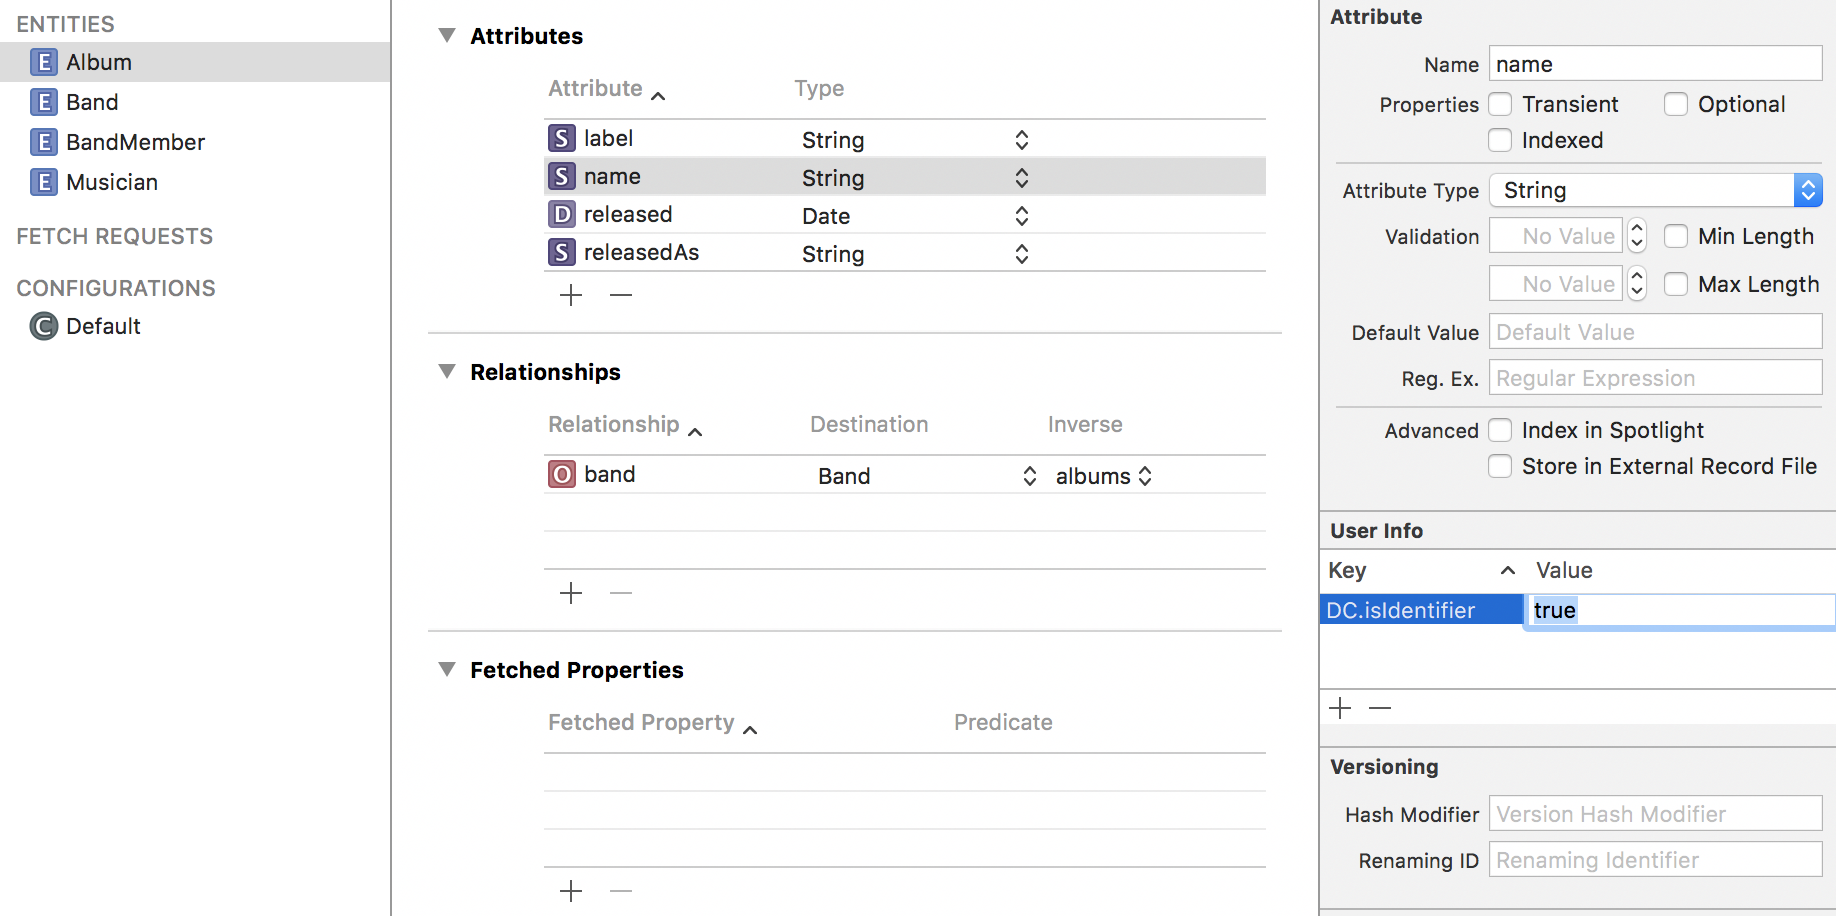
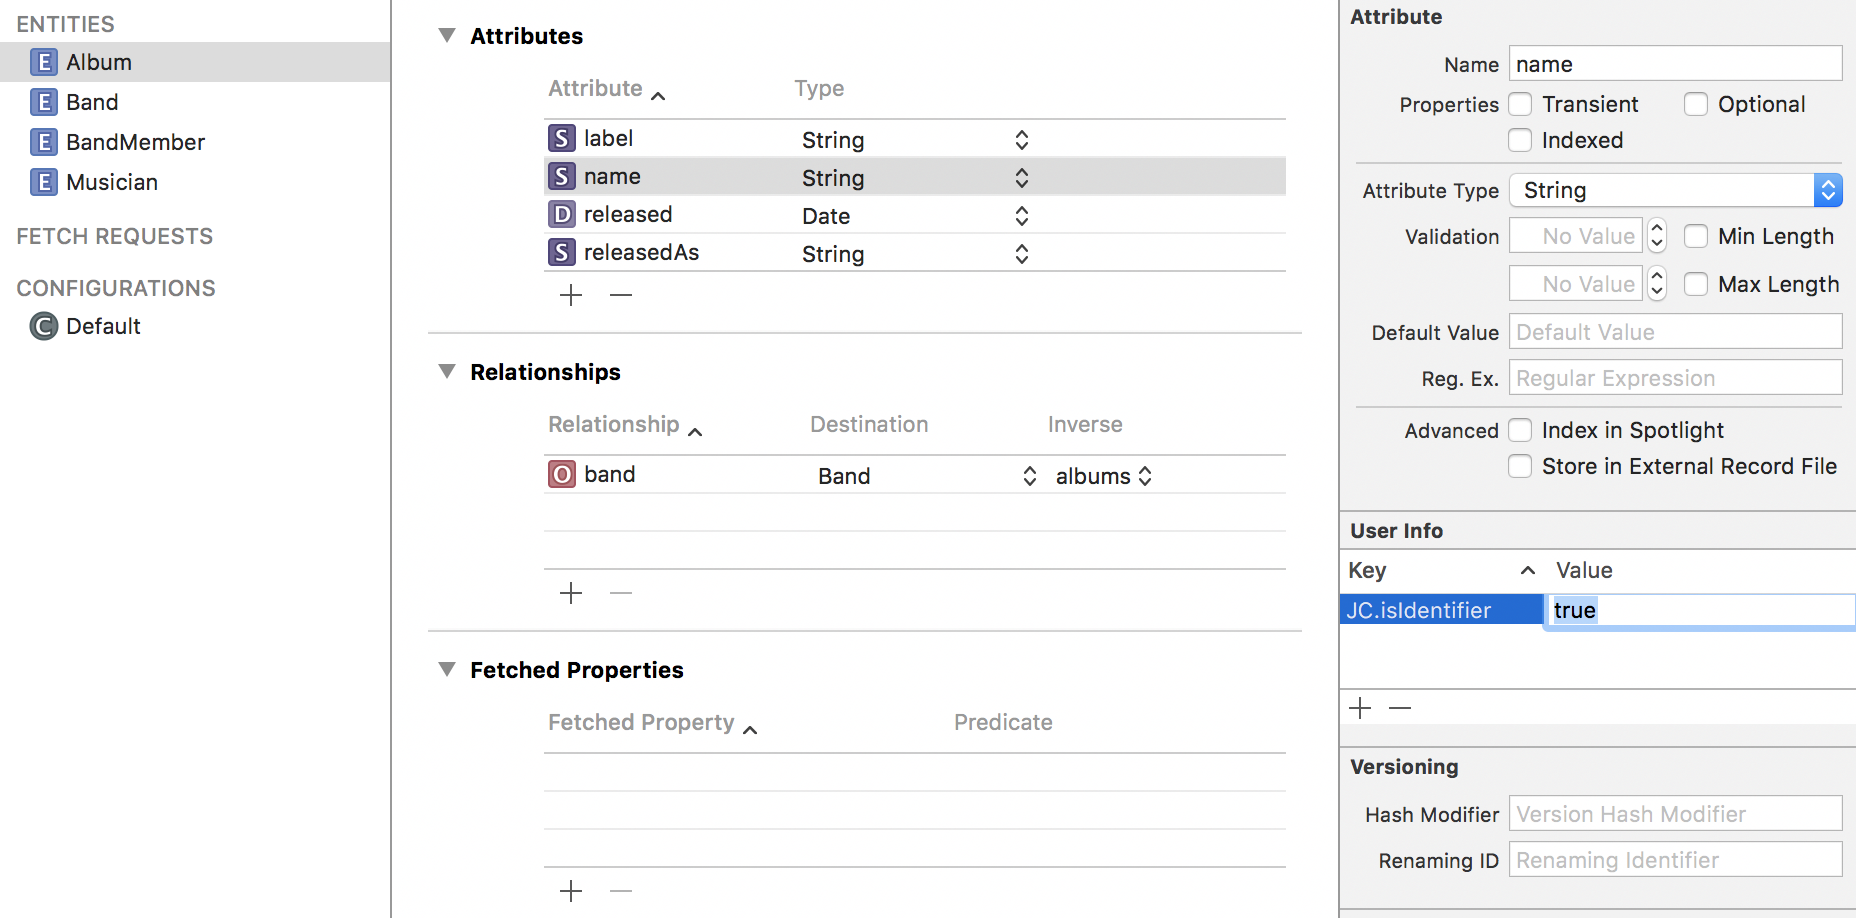
- Updated README

diff --git a/README.md b/README.md
@@ -1,16 +1,27 @@
 # JSONCache
 
+[![Build Status](https://travis-ci.org/andersblehr/JSONCache.svg?branch=master)](https://travis-ci.org/andersblehr/JSONCache)
+[![Carthage compatible](https://img.shields.io/badge/Carthage-compatible-4BC51D.svg?style=flat)](https://github.com/Carthage/Carthage)
+[![CocoaPods](https://img.shields.io/cocoapods/v/JSONCache.svg)](https://cocoapods.org/)
+[![Reference Status](https://www.versioneye.com/objective-c/jsoncache/reference_badge.svg?style=flat)](https://www.versioneye.com/objective-c/jsoncache/references)
+
 JSONCache is a thin layer on top of Core Data that seamlessly
 consumes, caches and produces JSON data.
 
-- Automatic mapping between `camelCase` and `snake_case`.
-- Automatic relationship mapping, based on inferred knowledge of your
-  Core Data model.
-- Automatic merging of JSON data into existing objects.
-- On-demand JSON generation, both from `NSManageObject` instances, and
+- Automatically creates Core Data objects from JSON data, or merges
+  JSON data into objects that already exist.
+- Automatically maps 1:1 and 1:N relationships based on inferred
+  knowledge of your Core Data model.
+- If necessary, automatically maps between `snake_case` in JSON and
+  `camelCase` in Core Data attribute names.
+- Generates JSON on demand, both from `NSManageObject` instances, and
   from any `struct` that adopts the `JSONifiable` protocol.
-- All JSON parsing and Core Data operations are done in the
-  background, so it doesn't interfere with your app's responsiveness.
+- Operates on background threads to avoid interfering with your app's
+  responsiveness.
+- Both synchronous and asynchronous methods return instances of
+  [Result](https://github.com/antitypical/Result), the go-to
+  implementation for Swift of a functional pattern that puts emphasis
+  on the semantics of success or failure.
 
 ## Content
 
@@ -21,8 +32,8 @@ consumes, caches and produces JSON data.
   - [Case conversion](#case-conversion)
   - [Date conversion](#date-conversion)
   - [Relationship mapping](#relationship-mapping)
-    - [Entity primary key](#entity-primary-key)
-    - [JSON foreign key](#json-foreign-key)
+    - [How to ...](#how-to)
+    - [But how ...?](#but-how)
 - [Installation](#installation)
   - [CocoaPods](#cocoapods)
   - [Carthage](#carthage)
@@ -233,32 +244,18 @@ JSONCache which format to expect and/or produce.
 
 ### Relationship mapping
 
-For JSONCache to automatically map relationships, two things must be
-in place:
+#### How to ...
 
-1. A primary key for each entity that takes part in a relationship.
-2. The foreign key of the target entity in the JSON relationship
-   attribute on the 'one end' of one-to-one and one-to-many
-   relationships.
-
-Many-to-many relationships are currently not supported, except through
-relationship entities (such as the `BandMember` entity in the JSON
-example above).
-
-#### Entity primary key
-
-For JSONCache to automatically map relationships, you must mark the
-primary key of each entity in your Core Data model. You do this in
-either of two ways:
+In order for JSONCache to automatically map a 1:1 or a 1:N
+relationship, you essentially only need to tell it one thing: The
+primary key of the object on the '1: end' of the relationship. You do
+this in either of two ways:
 
 1. Use the name `id` for the primary key. (See Figure 1.)
-2. Create a User Info key named `DC.isIdentifier` for the primary key
-   attribute  and assign it the value `true` or `YES` (both case
-   insensitive). (See Figure 2.)
+2. Create a User Info key named `JC.isIdentifier` for the primary key
+   attribute and assign it the value `true` or `YES` (or `TRUE` or
+   `yes`; both are case insensitive). (See Figure 2.)
    
-The primary key must be unique within an entity, but not across
-entities.
-
 ![](images/identifier-1.png)
 
 _Figure 1: Marking an entity's primary key by naming it `id`._
@@ -266,38 +263,37 @@ _Figure 1: Marking an entity's primary key by naming it `id`._
 ![](images/identifier-2.png)
 
 _Figure 2: Marking an entity's primary key by creating a User Info key
-named `DC.isIdentifier` and setting it to `true`._
+named `JC.isIdentifier` and setting it to `true`._
 
-#### JSON foreign key
+The primary key must be unique within an entity, but not across
+entities.
+
+#### But how ...?
+   
+When JSONCache instantiates or updates an `NSManagedObject` instance
+from a JSON dictionary, it does so by inspecting the
+`NSAttributeDescription`s of the `NSEntityDescription` that describes
+the underlying entity, and assign each attribute the corresponding
+value from the JSON dictionary.
+
+In a second pass, JSONCache inspects the `NSRelationshipDescription`s
+of the entity, and for each relationship that is _not_ `toMany`, it
+looks up the `NSEntityDescription` of the destination object. Through
+a JSONCache extension method on `NSEntityDescription`, it obtains the
+primary key of the destination entity. It already knows the primary
+key _value_ of the destination object from the JSON dictionary, so now
+it has all the information it needs in order to look it up, either in
+the set of new objects created from the JSON data, or in Core Data if
+it already has been persisted. Once it has a reference to the
+destination object, it hooks up the relationship and moves on to the
+next item.
 
 Consider the following JSON records:
-
-**Musician**
-```json
-{
-  "name": "Mick Karn",  <- Primary key
-  "born": 1958,
-  "dead": 2011,
-  "instruments": "Bass, sax, clarinet, oboe, keyboards, vocals"
-}
-```
-
-**BandMember**
-```json
-{
-  "id": "Mick Karn in Japan",  <- Primary key
-  "musician": "Mick Karn",     <- Foreign key
-  "band": "Japan",             <- Foreign key
-  "joined": 1974,
-  "left": 1991,
-  "instruments": "Bass, sax, vocals"
-}
-```
 
 **Band**
 ```json
 {
-  "name": "Japan",  <- Primary key
+  "name": "Japan",
   "formed": 1974,
   "disbanded": 1991,
   "hiatus": "1982-1989",
@@ -310,17 +306,27 @@ Consider the following JSON records:
 ```json
 {
   "name": "Tin Drum",
-  "band": "Japan",  <- Foreign key
+  "band": "Japan",
   "released": "1981-11-13T00:00:00Z",
   "label": "Virgin"
 }
 ```
 
-The foreign keys in the JSON data correspond to `toOne` relationships
-in Core Data. JSONCache retrieves the `NSRelationshipDescription` for
-each relationship, uses this to obtain the class of the target object,
-looks it up using the foreign key from the JSON dictionary, and
-establishes the relationship.
+JSONCache first creates two `NSManagedObject` instances, one for the
+band Japan, and one for the _Tin Drum_ album, each holding all the
+attributes from the corresponding JSON record. Then, in the second
+pass, JSONCache looks at relationships. The `Band` entity participates
+in 2 relationships, `albums` and `members` (see the ER diagram above),
+both of which are `toMany`, so it does nothing. The `Album` entity
+participates in 1 relationship, `band`, which is _not_
+`toMany`. Through the `NSRelationshipDescription` describing the
+`band` relationship, JSONCache finds that the destination entity is of
+type `Band`, and through the `NSEntityDescription` describing the
+destination entity, it finds that it has the primary key `name`. Now
+JSONCache has all the information it needs. It looks up a `Band`
+object whose `name` value is the same as the `band` value in the
+`Album` dictionary for the _Tin Drum_ album (i.e., 'Japan'), and
+finally hooks up the relationship.
 
 ## Installation
 
@@ -342,10 +348,11 @@ github "andersblehr/JSONCache" ~> 1.0
 
 ### Compatibility
 
-- iOS 9.3 or later
 - Swift 3.x
-
-Support for other Apple platforms is in the works.
+- macOS 10.11 or later
+- iOS 9.3 or later
+- watchOS 3.0 or later
+- tvOS 9.2 or later
 
 ## License
 
